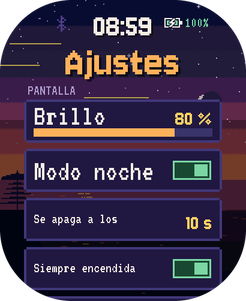
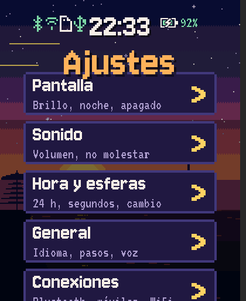
Ajustes del reloj por secciones y QR para descargar la app
- Ajustes: menú de secciones (Pantalla, Sonido, Hora y esferas, General,
  Conexiones, Sistema, App del móvil); BOOT vuelve al menú. Añade el
  formato de 24 h al reloj.
- App del móvil: QR (espressif/qrcode) con el enlace al APK más reciente
  en GitHub Pages, por si se borra la app.
- Consola: "ui drag x0 y0 x1 y1" para probar listas que se desplazan.
- Documentación: manual, app Android, CHANGELOG, novedades y capturas.

diff --git a/src/app_settings.c b/src/app_settings.c
@@ -1,7 +1,9 @@
-// Settings: a scrolling list of rows, on the dusk background (the style keeps dusk for configuration).
-// Rows are switches (tap), sliders (drag sideways), choices (tap cycles) and information. Every
-// change goes through settings_set(), like the phone app and the web page, so it is saved and they
-// all see it.
+// Settings: a menu of sections (Display, Sound, Time and faces, General, Connections, System, the phone
+// app), each a scrolling list of rows, on the dusk background (the style keeps dusk for configuration).
+// Rows are switches (tap), sliders (drag sideways), choices (tap cycles), information and, in "the
+// phone app", a QR code with the link to the latest Android app (it is not in the Play Store: a
+// phone that lost it finds it again here). Back goes from a section to the menu. Every change goes
+// through settings_set(), like the phone app and the web page, so it is saved and they all see it.
 // The row table leaves the fields a kind does not use at zero
 #pragma GCC diagnostic ignored "-Wmissing-field-initializers"
 #include <stdio.h>
@@ -13,6 +15,7 @@
 #include "esp_heap_caps.h"
 #include "esp_timer.h"
 #include "ota.h"
+#include "qrcode.h"
 #include "settings.h"
 #include "sys.h"
 #include "ui_icons.h"
@@ -22,7 +25,7 @@
 #define X0 40
 #define WID 330
 
-typedef enum { R_HEAD, R_SWITCH, R_SLIDER, R_CHOICE, R_INFO, R_ACTION } row_kind_t;
+typedef enum { R_HEAD, R_SWITCH, R_SLIDER, R_CHOICE, R_INFO, R_ACTION, R_QR } row_kind_t;
 
 typedef struct {
     row_kind_t kind;
@@ -33,7 +36,10 @@ typedef struct {
     const int *choices;         // choice values (ends with -1)
     void (*info)(char *buf, size_t n);  // info / action detail
     void (*action)(void);
+    const char *des, *den;      // a section (R_HEAD): what it holds, for the menu
 } row_t;
+
+#define APP_URL "https://carlosns.github.io/c6-fx-clock/c6-clock-app.apk"  // tools/release.py: always the latest
 
 static const int WKS[] = {5, 10, 15, 30, 60, -1};
 static const int LANGS[] = {0, 1, -1};
@@ -84,47 +90,65 @@ static void act_forget(void)
     ble_forget_all();
 }
 
+#define S(es, en, des, den) {R_HEAD, es, en, NULL, NULL, 0, 0, NULL, NULL, NULL, des, den}
 static const row_t ROWS[] = {
-    {R_HEAD, "PANTALLA", "SCREEN"},
+    S("Pantalla", "Display", "Brillo, noche, apagado", "Brightness, night, sleep"),
     {R_SLIDER, "Brillo", "Brightness", "bri", &g_app.brightness, 5, 100},
     {R_SWITCH, "Modo noche", "Night mode", "non", &g_app.night_on},
     {R_CHOICE, "Se apaga a los", "Turns off after", "wks", &g_app.wake_secs, 0, 0, WKS},
     {R_SWITCH, "Siempre encendida", "Always on", "aon", &g_app.always_on},
     {R_SWITCH, "Levantar la muñeca", "Raise to wake", "raise", &g_app.raise_wake},
     {R_CHOICE, "Tocar para encender", "Tap to wake", "tap", &g_app.tap_wake, 0, 0, TAPS},
-    {R_HEAD, "SONIDO", "SOUND"},
+    S("Sonido", "Sound", "Volumen, no molestar", "Volume, do not disturb"),
     {R_SLIDER, "Volumen", "Volume", "vol", &g_app.volume, 0, 100},
     {R_SWITCH, "No molestar", "Do not disturb", "dnd", &g_app.dnd},
-    {R_HEAD, "ESFERAS", "FACES"},
+    S("Hora y esferas", "Time and faces", "24 h, segundos, cambio", "24 h, seconds, cycle"),
     {R_SWITCH, "Formato 24 h", "24-hour time", "h24", &g_app.h24},
     {R_SWITCH, "Segundos", "Seconds", "secs", &g_app.show_secs},
     {R_SWITCH, "Cambio automático", "Auto change", "auto", &g_app.auto_cycle},
-    {R_HEAD, "GENERAL", "GENERAL"},
+    S("General", "General", "Idioma, pasos, voz", "Language, steps, voice"),
     {R_CHOICE, "Idioma", "Language", "lang", &g_app.lang, 0, 0, LANGS},
     {R_CHOICE, "Objetivo de pasos", "Steps goal", "goal", &g_app.step_goal, 0, 0, GOALS},
     {R_SWITCH, "Voz (mantén BOOT)", "Voice (hold BOOT)", "voice", &g_app.voice},
-    {R_HEAD, "CONEXIONES", "CONNECTIONS"},
+    S("Conexiones", "Connections", "Bluetooth, móviles, WiFi", "Bluetooth, phones, Wi-Fi"),
     {R_INFO, "Bluetooth", "Bluetooth", NULL, NULL, 0, 0, NULL, info_bt},
     {R_ACTION, "Olvidar móviles", "Forget phones", NULL, NULL, 0, 0, NULL, info_forget, act_forget},
     {R_INFO, "WiFi", "Wi-Fi", NULL, NULL, 0, 0, NULL, info_wifi},
-    {R_HEAD, "SISTEMA", "SYSTEM"},
+    S("Sistema", "System", "Versión, batería, reset", "Version, battery, reset"),
     {R_INFO, "Versión", "Version", NULL, NULL, 0, 0, NULL, info_version},
     {R_INFO, "Memoria libre", "Free memory", NULL, NULL, 0, 0, NULL, info_memory},
     {R_INFO, "Batería", "Battery", NULL, NULL, 0, 0, NULL, info_battery},
     {R_INFO, "Encendido", "Uptime", NULL, NULL, 0, 0, NULL, info_uptime},
     {R_ACTION, "Restablecer ajustes", "Reset settings", NULL, NULL, 0, 0, NULL, info_reset, act_reset},
+    S("App del móvil", "Phone app", "QR para descargarla", "QR to download it"),
+    {R_QR, "App Marea para Android", "Marea app for Android"},
 };
 #define NROWS ((int)(sizeof(ROWS) / sizeof(ROWS[0])))
 #define HEAD_H 46
 
+#define QR_H 340  // fits the view: the page does not scroll
 static ui_scroll_t s_scroll;
 static int s_slider = -1, s_pressed = -1;
 static bool s_axis_known, s_sideways;
+static int s_sec = -1;  // the section open (index of its R_HEAD row), -1 = the menu of sections
+
+// The rows on screen: the menu lists the sections; a section, its own rows (up to the next one)
+static int first_row(void) { return s_sec < 0 ? 0 : s_sec + 1; }
+static int end_row(void)
+{
+    if (s_sec < 0) return NROWS;
+    int k = s_sec + 1;
+    while (k < NROWS && ROWS[k].kind != R_HEAD) k++;
+    return k;
+}
+static bool shown(int k) { return s_sec < 0 ? ROWS[k].kind == R_HEAD : true; }
+static int row_h(int k) { return s_sec < 0 ? ROW : ROWS[k].kind == R_QR ? QR_H : ROW; }
 
 static int row_y(int i)
 {
     int y = 0;
-    for (int k = 0; k < i; k++) y += ROWS[k].kind == R_HEAD ? HEAD_H : ROW;
+    for (int k = first_row(); k < i; k++)
+        if (shown(k)) y += row_h(k);
     return y;
 }
 
@@ -132,10 +156,10 @@ static int row_at(int y)
 {
     int yy = y - TOP + s_scroll.offset;
     if (y < TOP || yy < 0) return -1;
-    for (int k = 0, acc = 0; k < NROWS; k++) {
-        int h = ROWS[k].kind == R_HEAD ? HEAD_H : ROW;
-        if (yy < acc + h) return ROWS[k].kind == R_HEAD ? -1 : k;
-        acc += h;
+    for (int k = first_row(), acc = 0; k < end_row(); k++) {
+        if (!shown(k)) continue;
+        if (yy < acc + row_h(k)) return k;
+        acc += row_h(k);
     }
     return -1;
 }
@@ -144,6 +168,35 @@ static void open(void)
 {
     s_scroll.offset = 0;
     s_forget_armed = false;
+    s_sec = -1;
+}
+
+// The QR code of the app's link, made once (qrcodegen, through espressif/qrcode)
+static uint8_t s_qr[45 * 45];
+static int s_qr_n;
+static void qr_got(esp_qrcode_handle_t q)
+{
+    int n = esp_qrcode_get_size(q);
+    if (n > 45) return;
+    for (int y = 0; y < n; y++)
+        for (int x = 0; x < n; x++) s_qr[y * n + x] = esp_qrcode_get_module(q, x, y);
+    s_qr_n = n;
+}
+static void draw_qr(int y)
+{
+    if (!s_qr_n) {
+        esp_qrcode_config_t cfg = ESP_QRCODE_CONFIG_DEFAULT();
+        cfg.display_func = qr_got;
+        cfg.max_qrcode_version = 6;
+        cfg.qrcode_ecc_level = ESP_QRCODE_ECC_MED;
+        esp_qrcode_generate(&cfg, APP_URL);
+    }
+    if (!s_qr_n) return;
+    int m = 216 / (s_qr_n + 4), side = m * (s_qr_n + 4), x0 = (UI_W - side) / 2;  // a quiet zone of 2 modules
+    ui_rect(x0, y, side, side, 0xFFFF);
+    for (int r = 0; r < s_qr_n; r++)
+        for (int c = 0; c < s_qr_n; c++)
+            if (s_qr[r * s_qr_n + c]) ui_rect(x0 + (c + 2) * m, y + (r + 2) * m, m, m, 0x0000);
 }
 
 static void value_text(const row_t *r, char *b, size_t n)
@@ -161,18 +214,30 @@ static bool draw(uint32_t now, bool force)
     if (!force) return false;
     char buf[64];
     s_scroll.view_h = UI_H - TOP - 30;
-    s_scroll.content_h = row_y(NROWS);
+    s_scroll.content_h = row_y(end_row());
     ui_background(true);
     ui_veil(50, UI_H, 3);
-    for (int i = 0; i < NROWS; i++) {
+    for (int i = first_row(); i < end_row(); i++) {
+        if (!shown(i)) continue;
         const row_t *r = &ROWS[i];
         int y = TOP + row_y(i) - s_scroll.offset;
-        if (y > UI_H || y + ROW < TOP - 30) continue;
-        if (r->kind == R_HEAD) {
-            ui_print(&ui_vt, 1, X0 + 6, y + 18, TR(r->es, r->en), MS_GRIS);
+        if (y > UI_H || y + row_h(i) < TOP - 30) continue;
+        bool p = i == s_pressed;
+        if (r->kind == R_HEAD) {  // the menu: a section, what it holds, and the way in
+            ui_panel(X0, y, WID, ROW - 10, p ? MS_PANEL2 : MS_PANEL, MS_LINEA, 4, false);
+            ui_print(&ui_jersey, 2, X0 + 16, y + 2, TR(r->es, r->en), MS_CREMA);
+            ui_print(&ui_vt, 1, X0 + 16, y + 42, TR(r->des, r->den), MS_GRIS);
+            ui_print_r(&ui_jersey, 3, X0 + WID - 16, y + 6, ">", MS_ORO2);
             continue;
         }
-        bool p = i == s_pressed;
+        if (r->kind == R_QR) {  // the link to the app, to scan with the phone
+            draw_qr(y + 10);
+            ui_print_c(&ui_vt, 1, UI_W / 2, y + 238, TR("Escanéalo con el móvil para descargar", "Scan it with the phone to download"), MS_CREMA, false);
+            ui_print_c(&ui_vt, 1, UI_W / 2, y + 260, TR("la última versión de la app Marea", "the latest Marea app"), MS_CREMA, false);
+            ui_print_c(&ui_vt, 1, UI_W / 2, y + 288, TR("(no está en Play Store: Android pedirá", "(not in the Play Store: Android will ask"), MS_GRIS, false);
+            ui_print_c(&ui_vt, 1, UI_W / 2, y + 310, TR("permiso para instalarla)", "to allow installing it)"), MS_GRIS, false);
+            continue;
+        }
         ui_panel(X0, y, WID, ROW - 10, p ? MS_PANEL2 : MS_PANEL, MS_LINEA, 4, false);
         const char *label = TR(r->es, r->en);
         // Labels shrink to leave room for the value or the switch on the right
@@ -207,7 +272,8 @@ static bool draw(uint32_t now, bool force)
     ui_background_band(true, 0, TOP - 16);
     ui_shade(0, 0, UI_W, TOP - 16, 1);
     ui_status_bar();
-    ui_print_c(&ui_jersey, 4, UI_W / 2, 64, TR("Ajustes", "Settings"), MS_ORO, true);
+    const char *title = s_sec < 0 ? TR("Ajustes", "Settings") : TR(ROWS[s_sec].es, ROWS[s_sec].en);
+    ui_print_c(&ui_jersey, ui_fit(&ui_jersey, 4, 3, UI_W - 60, title), UI_W / 2, 64, title, MS_ORO, true);
     if (s_reset_dlg)
         ui_dialog(TR("¿Restablecer?", "Reset?"),
                   TR("Los ajustes vuelven a los de fábrica. Se quedan el idioma, los móviles, la red WiFi, las alarmas y los pasos.",
@@ -257,6 +323,12 @@ static void event(const ui_event_t *e)
         int i = row_at(e->y);
         if (i < 0) break;
         const row_t *r = &ROWS[i];
+        if (r->kind == R_HEAD) {  // into the section
+            s_sec = i;
+            s_scroll.offset = 0;
+            s_pressed = -1;
+            break;
+        }
         if (r->kind == R_SWITCH) settings_set(r->key, !*r->val);
         else if (r->kind == R_SLIDER) slide_to(r, e->x);
         else if (r->kind == R_CHOICE) {
@@ -281,6 +353,12 @@ static void event(const ui_event_t *e)
 static bool back(void)
 {
     if (s_reset_dlg) return s_reset_dlg = false, true;
+    if (s_sec >= 0) {  // from a section back to the menu
+        s_sec = -1;
+        s_scroll.offset = 0;
+        s_forget_armed = false;
+        return true;
+    }
     return false;
 }
 

diff --git a/src/sys.c b/src/sys.c
@@ -512,7 +512,7 @@ void sys_poll_requests(void)
     char r[48];
     strlcpy(r, s_req, sizeof(r));
     s_req_pending = false;
-    int a, b;
+    int a, b, c2, d2;
     char d[12] = "", ed[12] = "";
     app_wake();
     if (strcmp(r, "home") == 0) sys_home();
@@ -524,6 +524,14 @@ void sys_poll_requests(void)
         synth(EV_DOWN, a, b, a, b, 0, 0);
         synth(EV_TAP, a, b, a, b, 0, 0);
         synth(EV_UP, a, b, a, b, 0, 0);
+    } else if (sscanf(r, "drag %d %d %d %d", &a, &b, &c2, &d2) == 4) {  // a slow drag: scrolls lists
+        synth(EV_DOWN, a, b, a, b, 0, 0);
+        for (int k = 1; k <= 8; k++) {
+            ui_event_t e = {.type = EV_MOVE, .x = a + (c2 - a) * k / 8, .y = b + (d2 - b) * k / 8, .x0 = a, .y0 = b,
+                            .dx = (c2 - a) / 8, .dy = (d2 - b) / 8};
+            sys_event(&e);
+        }
+        synth(EV_UP, c2, d2, a, b, 0, 0);
     } else if (sscanf(r, "long %d %d", &a, &b) == 2) {
         synth(EV_DOWN, a, b, a, b, 0, 0);
         synth(EV_LONG, a, b, a, b, 0, 0);

diff --git a/src/control.c b/src/control.c
@@ -49,7 +49,7 @@ void app_command(const char *cmd)
     if (find_command(cmd)) return;
     if (custom_command(cmd)) return;  // custom faces (Mis esferas)   // "find 1": the phone is looking for the watch  // "music ..." / "call ..." from the phone app
     if (alarm_command(cmd)) return;  // "alarm <i> label <text>" / "alarm <i> anim <n>"
-    if (strncmp(cmd, "ui ", 3) == 0) {   // drive the watch's screens: "ui home", "ui app 2", "ui tap 200 300"...
+    if (strncmp(cmd, "ui ", 3) == 0) {   // drive the watch's screens: "ui home", "ui app 2", "ui tap 200 300"..., "ui drag x0 y0 x1 y1"
         sys_request(cmd + 3);
         return;
     }

diff --git a/docs/wiki/Manual-del-reloj.md b/docs/wiki/Manual-del-reloj.md
@@ -12,7 +12,7 @@ Manual de uso de **Marea**: cómo se maneja el reloj y qué hace cada una de sus
 - Para **volver**, desliza desde el borde izquierdo hacia la derecha o pulsa **BOOT**.
 - El reloj tiene botones en el lateral: **BOOT**, el de uso diario, y **PWR**, que apaga la pantalla o el reloj entero (más abajo).
 - Al encenderlo desde apagado sale una **animación de bienvenida**: el mar de noche se ilumina, la luna sale tras la isla del faro y caen las letras de «Marea». En los reinicios no sale.
-- Los textos están en español o en inglés (*Ajustes → Idioma*).
+- Los textos están en español o en inglés (*Ajustes → General → Idioma*).
 
 ## Gestos
 
@@ -196,7 +196,7 @@ Una rueda con todas las esferas, por grupos (Efectos, Videojuegos, Arte, Natural
 
 El acelerómetro cuenta los pasos todo el día, con la pantalla encendida o apagada.
 
-- **Hoy:** el anillo se llena hacia el **objetivo diario** (10 000 por defecto; se cambia en *Ajustes → Objetivo de pasos*), con las calorías y la distancia aproximadas (0,04 kcal y 0,75 m por paso).
+- **Hoy:** el anillo se llena hacia el **objetivo diario** (10 000 por defecto; se cambia en *Ajustes → General → Objetivo de pasos*), con las calorías y la distancia aproximadas (0,04 kcal y 0,75 m por paso).
 - **Desliza a la izquierda** para ver los **últimos 30 días** como barras; toca una barra para ver los pasos de ese día. Desliza a la derecha para volver a hoy.
 - La cuenta empieza de cero a medianoche.
 
@@ -260,7 +260,7 @@ Sin tarjeta, el reloj lo avisa y vuelve solo a los 4 segundos. En modo USB no ha
 
 <img src="https://raw.githubusercontent.com/wiki/CarlosNS/c6-fx-clock/images/sys-settings.png" alt="Ajustes" width="200">
 
-Una lista que se desplaza con el dedo. Los **interruptores** se tocan, las **barras** se arrastran a los lados y las **opciones** cambian con cada toque. Todo se guarda solo y se ve igual desde la app y la página.
+Un menú de **secciones**, cada una con lo que contiene debajo de su nombre. Al tocar una se abre su lista, que se desplaza con el dedo; BOOT o el gesto desde el borde izquierdo vuelven al menú. Los **interruptores** se tocan, las **barras** se arrastran a los lados y las **opciones** cambian con cada toque. Todo se guarda solo y se ve igual desde la app y la página.
 
 | Sección | Ajuste | Opciones |
 |---|---|---|
@@ -272,16 +272,24 @@ Una lista que se desplaza con el dedo. Los **interruptores** se tocan, las **bar
 | | Tocar para encender | Con la pantalla apagada: *un toque* la enciende, *doble* necesita dos toques seguidos (evita encenderla sin querer) o *no* (solo los botones y la muñeca) |
 | **Sonido** | Volumen | Del altavoz (alarmas y llamadas) |
 | | No molestar | Sin sonido de alarmas ni llamadas |
-| **Esferas** | Segundos | Mostrar los segundos en las esferas que los tienen |
+| **Hora y esferas** | Formato 24 h | 24 horas o 12 con a. m. / p. m. |
+| | Segundos | Mostrar los segundos en las esferas que los tienen |
 | | Cambio automático | Pasar de esfera cada 30 s |
 | **General** | Idioma | Español o inglés |
 | | Objetivo de pasos | 4 000 a 15 000 |
+| | Voz (mantén BOOT) | Las [órdenes de voz](#órdenes-de-voz) |
 | **Conexiones** | Bluetooth | Nombre del reloj y si hay móvil conectado |
 | | WiFi | Red y dirección IP del reloj |
 | | Olvidar móviles | Borra los emparejamientos (toca dos veces) |
 | **Sistema** | Versión, memoria libre, batería, tiempo encendido | Información |
+| | Restablecer ajustes | Vuelve a los de fábrica, tras confirmar |
+| **App del móvil** | Un código QR | El enlace a la última versión de la app Marea para Android |
 
-Otros ajustes, como el formato de 24 horas, la velocidad de las animaciones, la ciudad del tiempo o las horas del modo noche, se cambian desde la [[App Android]] o la [[Página de control]].
+<img src="https://raw.githubusercontent.com/wiki/CarlosNS/c6-fx-clock/images/sys-settings-qr.png" alt="QR de la app" width="200">
+
+**Si pierdes la app:** como no está en la Play Store, el reloj guarda el camino. En *Ajustes → App del móvil*, escanea el QR con la cámara del móvil: abre la descarga de la última versión (`https://carlosns.github.io/c6-fx-clock/c6-clock-app.apk`). Android pedirá permiso para instalar apps de fuera de la tienda. Luego empareja de nuevo (ver [[App Android]]).
+
+Otros ajustes, como la velocidad de las animaciones, la ciudad del tiempo o las horas del modo noche, se cambian desde la [[App Android]] o la [[Página de control]].
 
 ## La hora y el tiempo
 

diff --git a/CHANGELOG.md b/CHANGELOG.md
@@ -4,6 +4,8 @@
 
 ### 3.0.0-beta.9 y app 0.8.0 (en preparación)
 
+- **Ajustes del reloj por secciones:** un menú (Pantalla, Sonido, Hora y esferas, General, Conexiones, Sistema y App del móvil) con lo que guarda cada una; BOOT vuelve al menú. Ahora también están en el reloj el formato de 24 h y la voz.
+- **La app, desde el reloj:** *Ajustes → App del móvil* enseña un QR con el enlace a la última versión de la app para Android, por si se borra (no está en la Play Store).
 - **Esferas nuevas:** *Disfruta* (un prado mecido por el viento que sigue la hora del día, con luciérnagas y fuegos artificiales de noche; sin hora, solo «Disfruta» o «Relax») y *El escultor* (la estatua de un corredor que se talla según los pasos de hoy, en once escenas hasta cumplir el objetivo).
 - **Mis esferas:** en la app (*Esferas → Mis esferas*) se crean, cambian y borran esferas propias: un nombre, una foto o un GIF de la galería encuadrado a la pantalla, y la hora digital con fuente, tamaño, sitio, color, contorno o sombra, segundos y fecha, con vista previa exacta y *Probar en el reloj*. Se guardan en la microSD del reloj (hace falta una; la app avisa si no la hay) y el móvil guarda una copia para restaurarlas. Los GIF se repiten mientras la pantalla está encendida (hasta 40 fotogramas, 274×336). El reloj recibe archivos por Bluetooth a su tarjeta.
 - **Editor de alarmas más seguro:** *Cancelar* y *Guardar*; *Borrar alarma* va aparte y pregunta antes. En Archivos, *Formatear* pasa a *Más…*.

diff --git a/docs/wiki/App-Android.md b/docs/wiki/App-Android.md
@@ -7,6 +7,7 @@ La app **Marea** es la forma normal de usar el reloj: se queda conectada por Blu
 
 1. En el móvil, descarga el APK de la app de la última release y ábrelo.
 2. Android avisará de que es una app de fuera de la tienda: permite instalar desde el navegador o el gestor de archivos que estés usando.
+   Si la borraste y no sabes de dónde sacarla, el reloj te la da: *Ajustes → App del móvil* enseña un QR con el enlace a la última versión.
 3. Abre **Marea** y acepta **Dispositivos cercanos** (para hablar con el reloj) y **Notificaciones** (para el aviso de conexión y las versiones nuevas). La app no pide ubicación: el emparejamiento lo hace el propio Android.
 
 ## Emparejar
